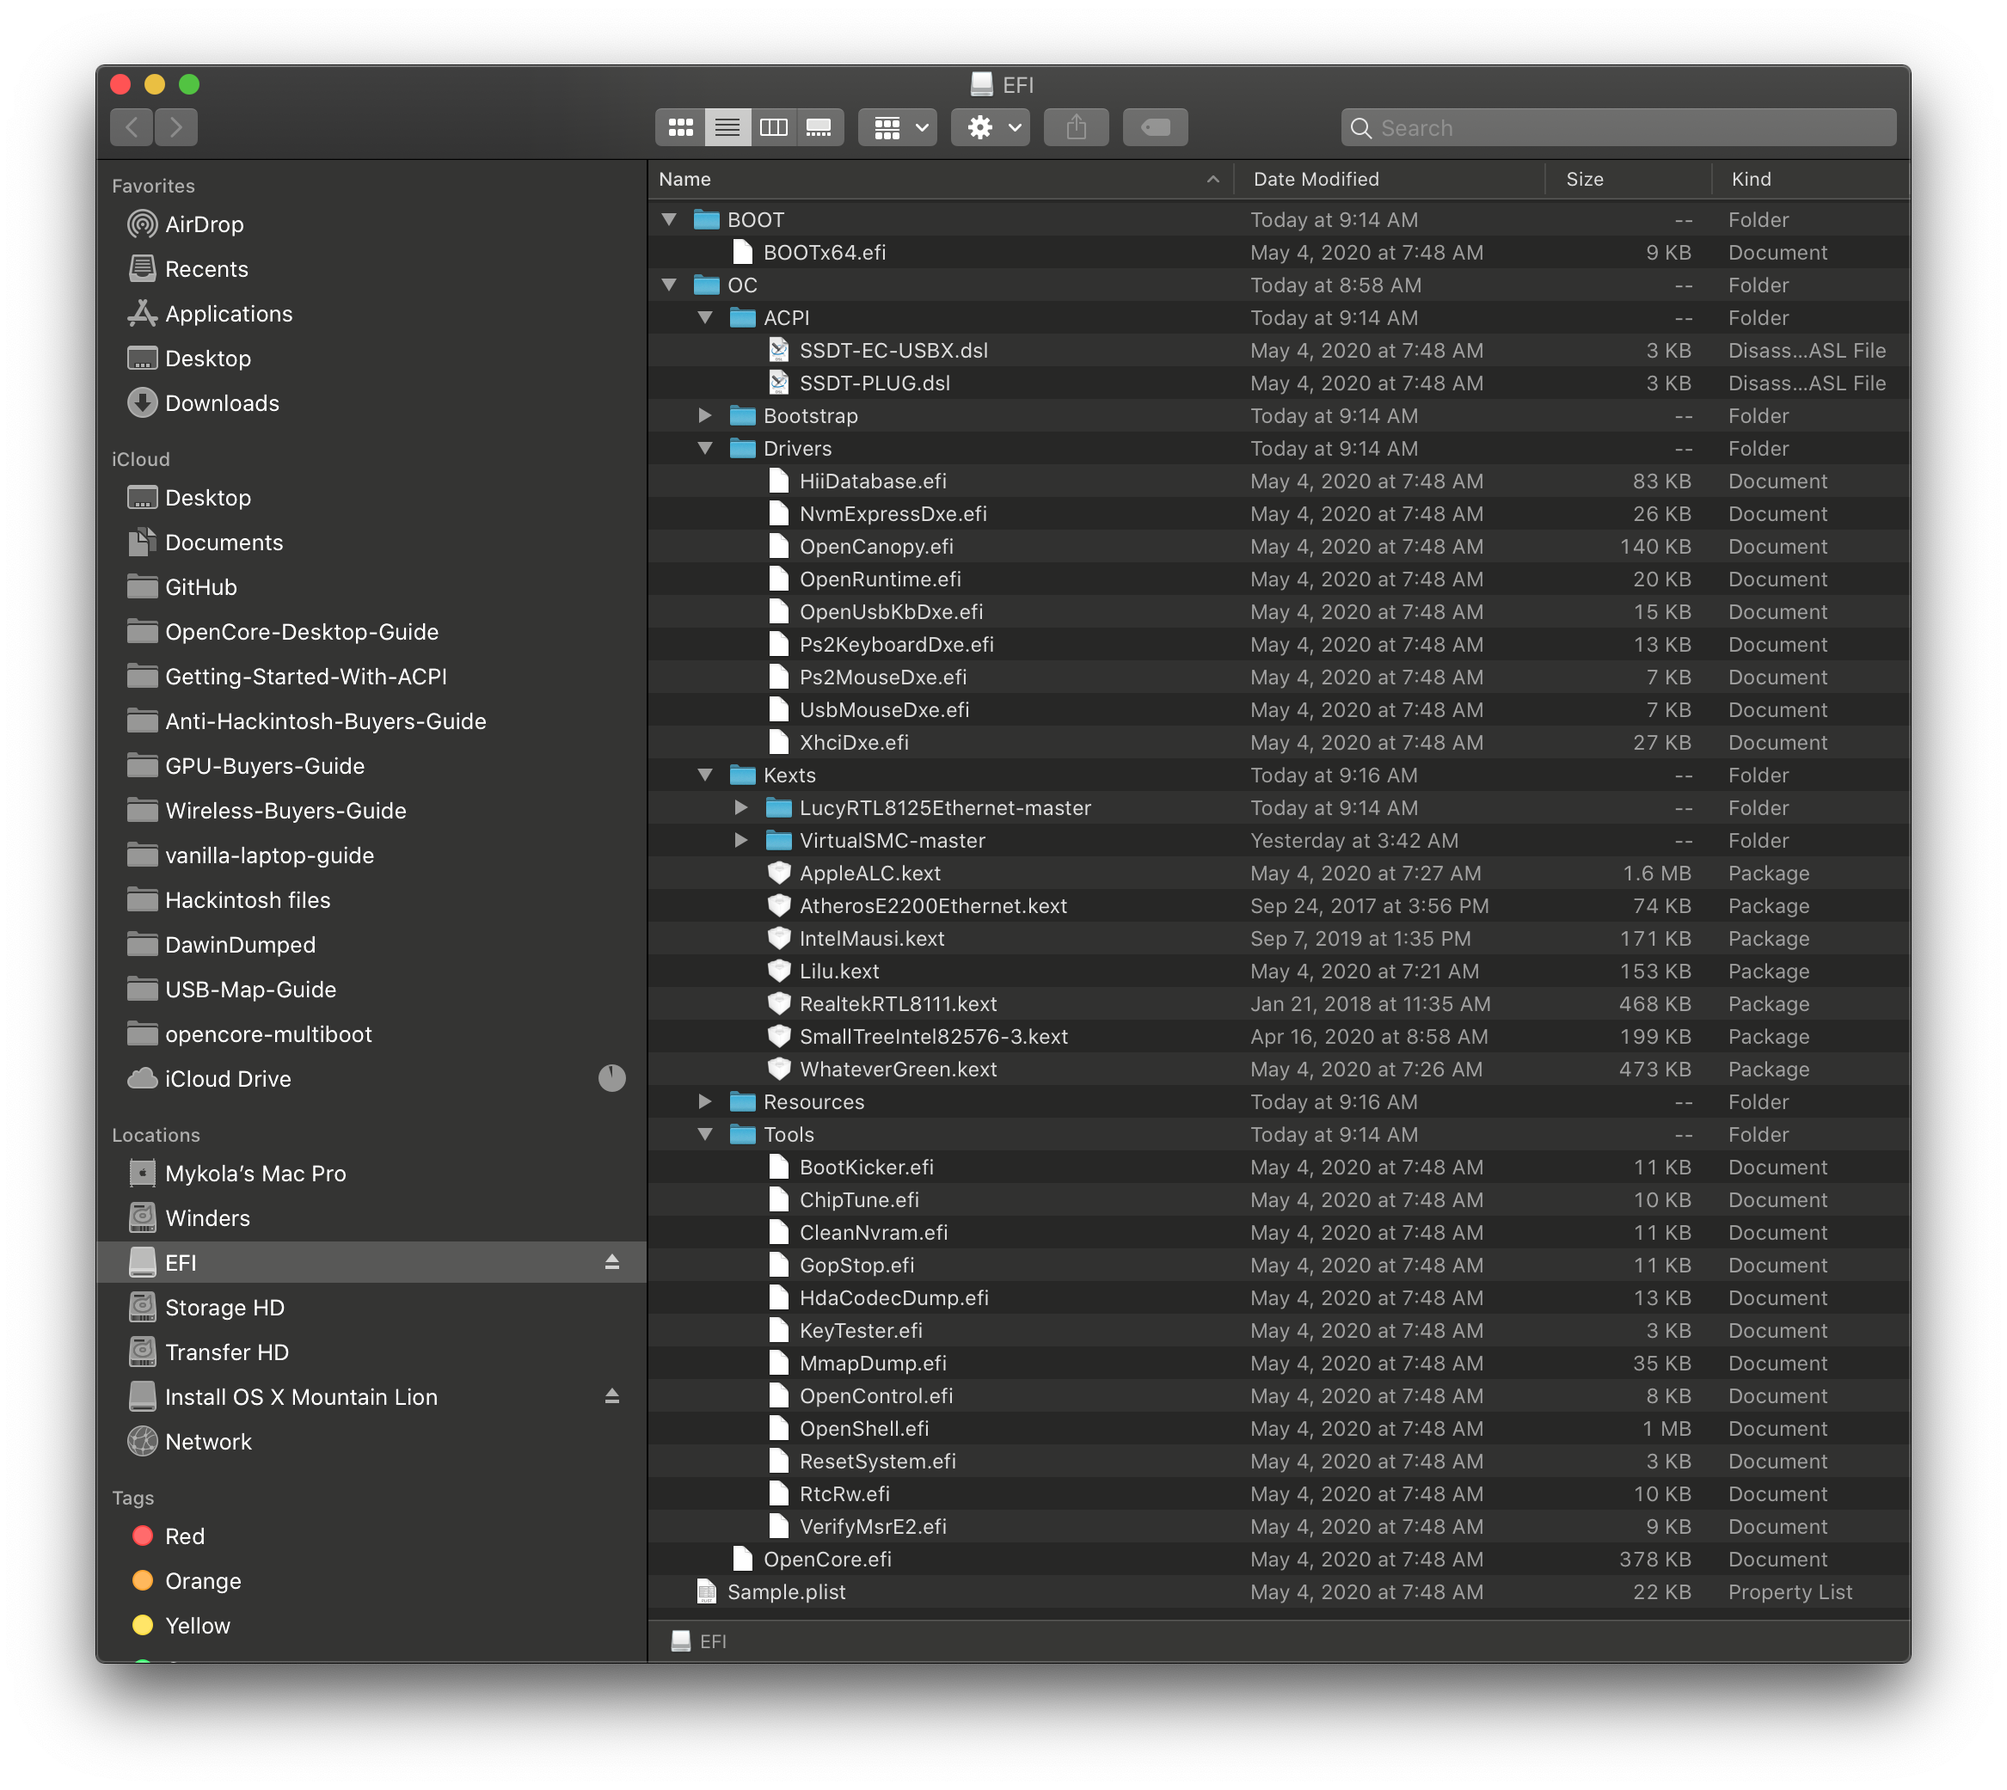
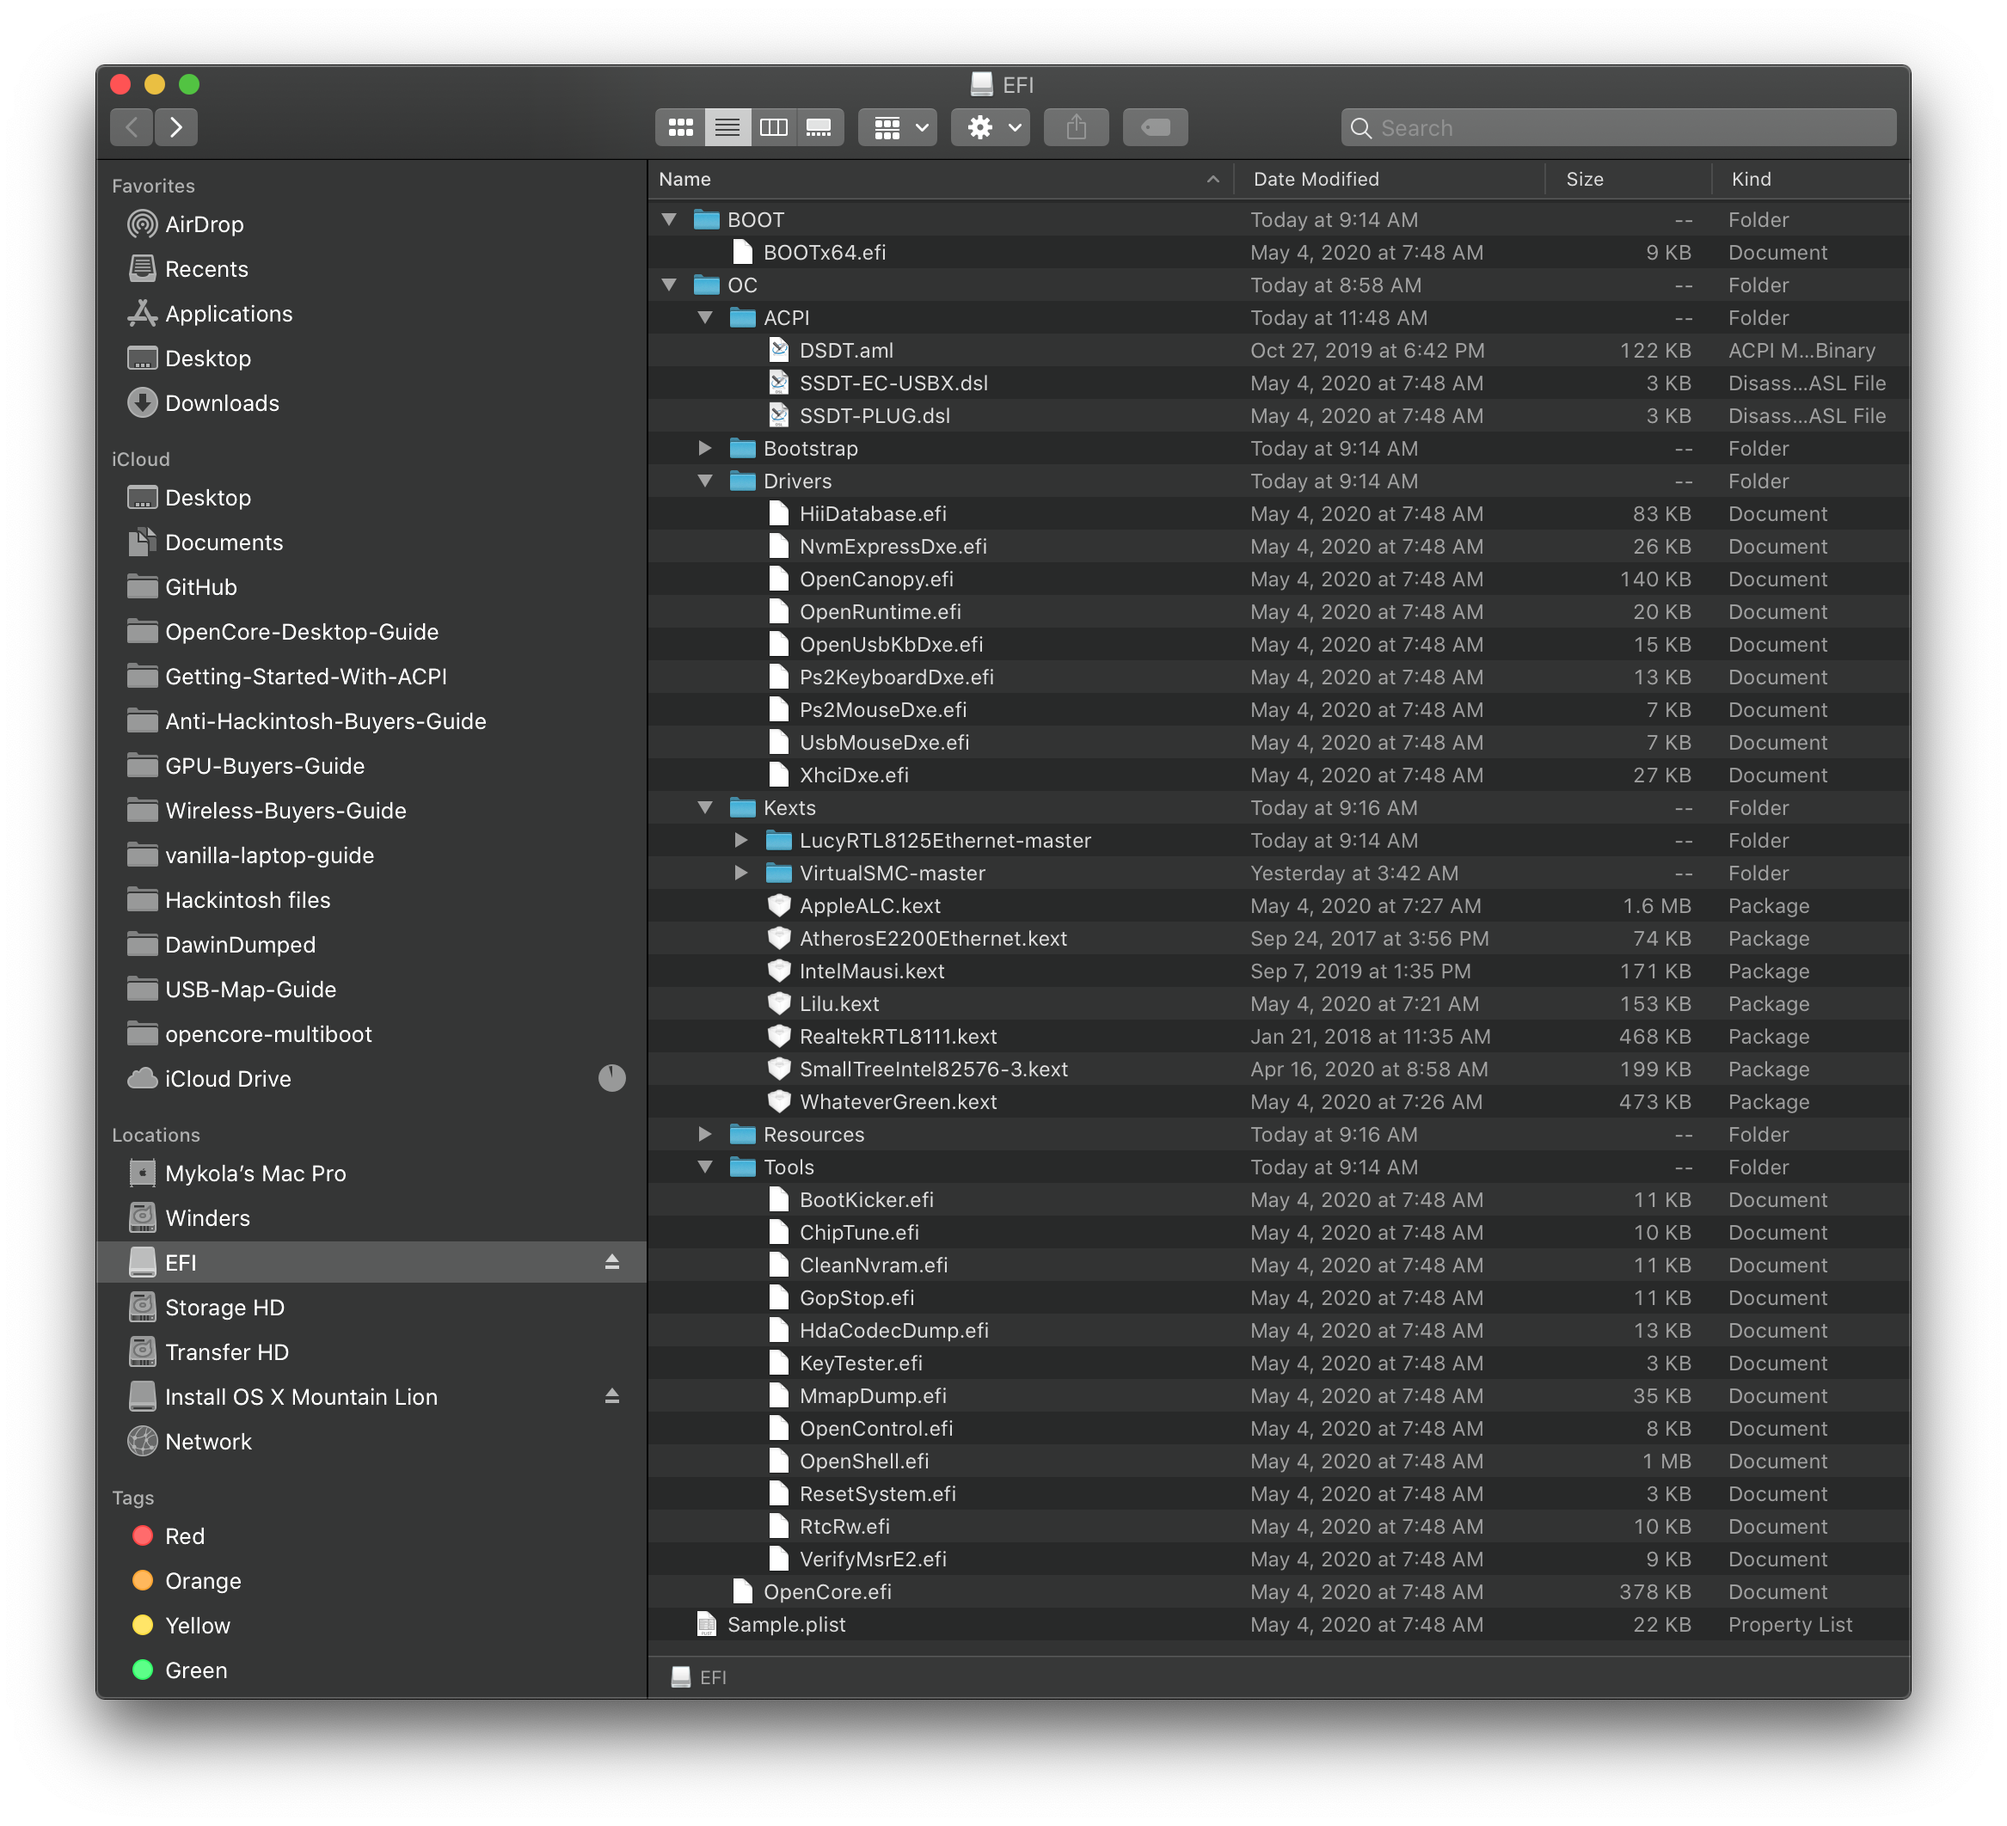
Fix table

diff --git a/installation/installation-process.md b/installation/installation-process.md
@@ -9,21 +9,6 @@ Now that you've finished setting up OpenCore, you're finally able to boot, main 
 * And a copy of the [troubleshooting page](https://dortania.github.io/OpenCore-Desktop-Guide/troubleshooting/troubleshooting.html)
 * And a ton of patience
 
-## Double checking your work
-
-One last thing we should go over before booting is how your EFI is setup:
-
-Good EFI          |  Bad EFI
-:-------------------------:|:-------------------------:
-![](/images/installation/install-md/good-efi.png)  |  ![](/images/installation/install-md/bad-efi.png)
-* EFI folder found on EFI partition | * EFI folder missing
-* ACPI Files are compiled(.aml) | * ACPI Files are not compiled(.dsl)
-* Removed unneeded Drivers(.efi) | * Leaves default Drivers
-* Removed unneeded Tools(.efi) | * Leaves default Tools
-* All files in the Kexts folder end in .kext | * Includes source code and folders
-* config.plist found under EFI/OC | * Neither renamed or placed the .plist in right location
-* Only uses kexts that are needed | * Downloaded every kext listed
-
 ## Recommended BIOS Settings
 
 With many OEMs you're likely going to be heavily limited in your options, if you can try to find these options and enable them:
@@ -48,9 +33,25 @@ With many OEMs you're likely going to be heavily limited in your options, if you
   * If OpenCore doesn't show up, set this to OtherOS
 * DVMT Pre-Allocated(iGPU Memory): 64MB
 
+## Double checking your work
+
+One last thing we should go over before booting is how your EFI is setup:
+
+Good EFI          |  Bad EFI
+:-------------------------:|:-------------------------:
+![](/images/installation/install-md/good-efi.png)  |  ![](/images/installation/install-md/bad-efi.png)
+* EFI folder found on EFI partition | * EFI folder missing
+* ACPI Files are compiled(.aml) | * ACPI Files are not compiled(.dsl)
+* DSDT is not included | * DSDT is included
+* Removed unneeded Drivers(.efi) | * Leaves default Drivers
+* Removed unneeded Tools(.efi) | * Leaves default Tools
+* All files in the Kexts folder end in .kext | * Includes source code and folders
+* config.plist found under EFI/OC | * Neither renamed or placed the .plist in right location
+* Only uses kexts that are needed | * Downloaded every kext listed
+
 ## Booting the OpenCore USB
 
-So you're not ready to finally put the USB stick into your computer and boot off of it, remember that your laptop will still default to the internal drive with Windows so you'll need to enter the BIOS or boot menu and select the USB. You'll need to check in the user manual or use a bit of google to find out what Fn key accesses the BIOS and boot menu(ie. Esc, F2, F10 or F12)
+So you're now ready to finally put the USB stick into your computer and boot off of it, remember that your laptop will still default to the internal drive with Windows so you'll need to enter the BIOS or boot menu and select the USB. You'll need to check in the user manual or use a bit of google to find out what Fn key accesses the BIOS and boot menu(ie. Esc, F2, F10 or F12)
 
 Once you boot the USB, you'll likely be greeted to the following boot options:
 
